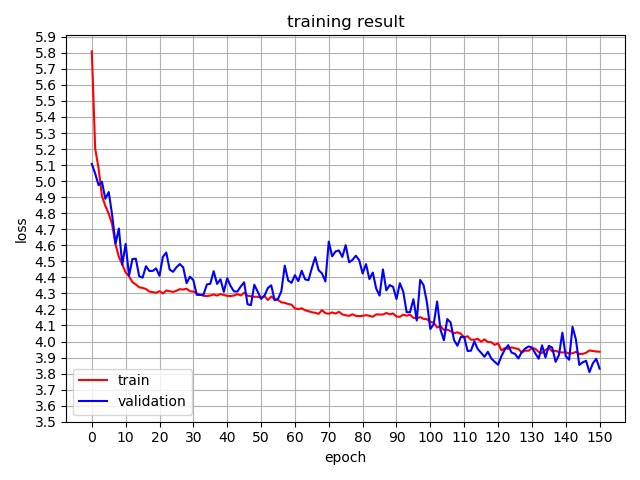
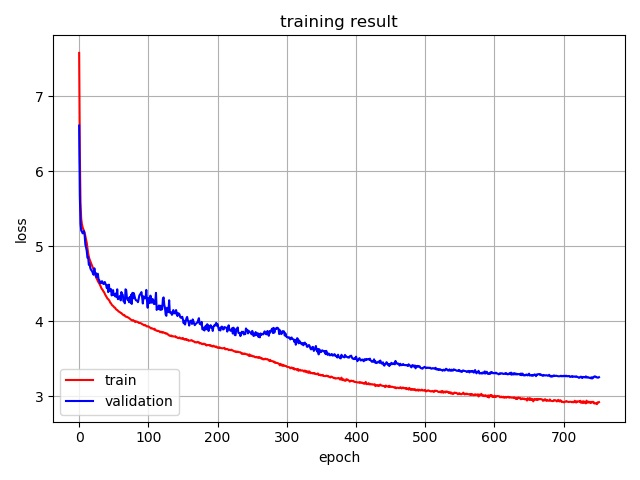
no message

Changed region(s): [[0.0312, 0.0312, 0.9688, 0.9688], [0.125, 0.875, 0.1562, 0.9375]]

diff --git a/test.py b/test.py
@@ -3,6 +3,8 @@
 @when : 2019-12-19
 @homepage : https://github.com/gusdnd852
 """
+import os
+
 from data import *
 
 from models.model.transformer import Transformer
@@ -17,14 +19,13 @@ model = Transformer(src_pad_idx=src_pad_idx,
                     ffn_hidden=ffn_hidden,
                     n_head=n_heads,
                     n_layers=n_layers,
-                    drop_prob=drop_prob,
+                    drop_prob=0.00,
                     device=device).to(device)
 
 
 def test_model(num_examples):
-    iterator = test_iter
+    iterator = train_iter
     model.load_state_dict(torch.load("./saved/model-saved.pt"))
-    model.eval()
 
     with torch.no_grad():
         for i, batch in enumerate(iterator):
@@ -56,4 +57,4 @@ def idx_to_word(x, vocab):
 
 
 if __name__ == '__main__':
-    test_model(num_examples=3)
+    test_model(num_examples=30)

diff --git a/train.py b/train.py
@@ -20,7 +20,7 @@ def count_parameters(model):
 
 def initialize_weights(m):
     if hasattr(m, 'weight') and m.weight.dim() > 1:
-        nn.init.xavier_uniform_(m.weight.data)
+        nn.init.kaiming_normal_(m.weight.data)
 
 
 model = Transformer(src_pad_idx=src_pad_idx,
@@ -45,6 +45,7 @@ optimizer = Adam(params=model.parameters(),
 scheduler = optim.lr_scheduler.ReduceLROnPlateau(optimizer=optimizer,
                                                  verbose=True,
                                                  factor=factor,
+                                                 min_lr=min_lr,
                                                  patience=patience)
 
 criterion = nn.CrossEntropyLoss(ignore_index=src_pad_idx)

diff --git a/conf.py b/conf.py
@@ -14,15 +14,16 @@ max_len = 50
 d_model = 512
 n_layers = 6
 n_heads = 8
-ffn_hidden = 256
+ffn_hidden = 2048
 drop_prob = 0.1
 
 # optimizer parameter setting
-init_lr = 1e-4
-factor = 0.8
+init_lr = 1e-5
+factor = 0.9
+min_lr = init_lr * 1e-12
 patience = 10
-warmup = 5
+warmup = 100
 weight_decay = 5e-4
-epoch = 2000
+epoch = 1000
 clip = 1
 inf = float('inf')

diff --git a/data.py b/data.py
@@ -8,7 +8,7 @@ from util.data_loader import DataLoader
 from util.tokenizer import Tokenizer
 
 tokenizer = Tokenizer()
-loader = DataLoader(ext=('.de', '.en'),
+loader = DataLoader(ext=('.en', '.de'),
                     tokenize_en=tokenizer.tokenize_en,
                     tokenize_de=tokenizer.tokenize_de,
                     init_token='<sos>',

diff --git a/graph.py b/graph.py
@@ -15,7 +15,7 @@ def read(name):
     file = re.sub('\\]', '', file)
     f.close()
 
-    return [float(i) for idx, i in enumerate(file.split(',')) if idx <= 150]
+    return [float(i) for idx, i in enumerate(file.split(','))]
 
 
 def draw():
